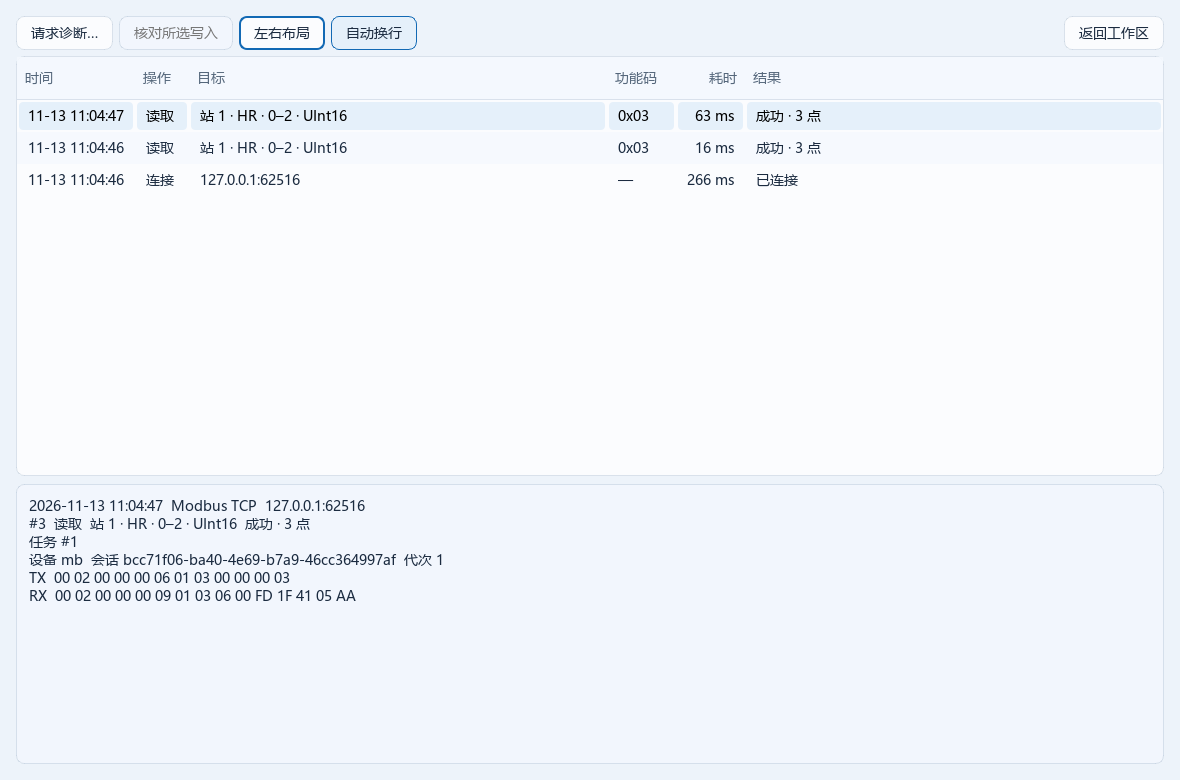
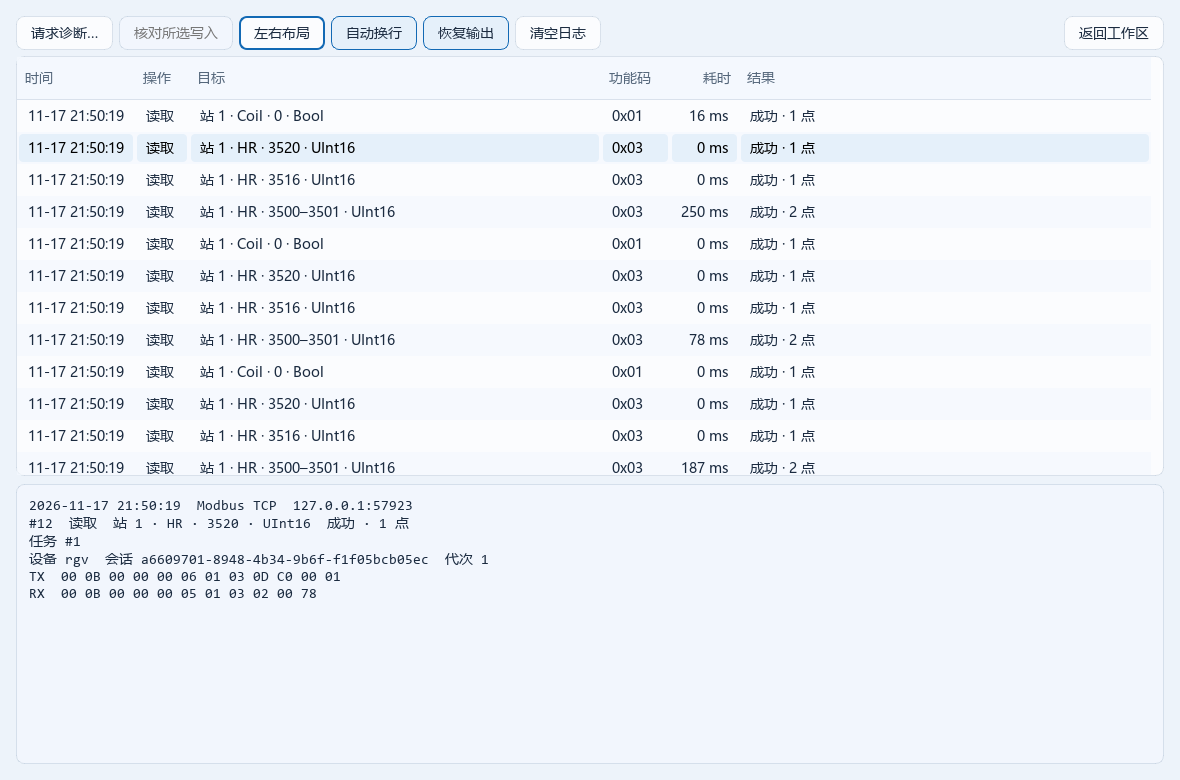
docs: rewrite README and refresh current feature screenshots
Document point-value actions, unconditional execution, live point resets, journal pause, and current compatibility boundaries. Replace previews with seven current application screenshots using local simulation data.

diff --git a/README.md b/README.md
@@ -5,93 +5,19 @@
 [![Python 3.12](https://img.shields.io/badge/Python-3.12-3776AB?logo=python&logoColor=white)](pyproject.toml)
 ![Windows](https://img.shields.io/badge/Platform-Windows-0078D4)
 
-面向 PLC 和工业设备联调的 Windows 桌面工具。通过同一个工作区连接真实设备、启动多台模拟设备、监视点位并查看原始报文。支持 **Modbus TCP** 和 **Siemens S7（经典 S7comm / ISO-on-TCP）** 客户端与服务端，以及 **Modbus RTU** 和 **OPC UA** 预览版。设备、点表、逐位业务含义和模拟方案可随项目保存，便于重复联调。
+面向 PLC、上位机和工业设备联调的 Windows 桌面工具。在同一个项目工作区中连接设备、启动模拟服务、监视点表、配置点位联动，并查看请求的 TX / RX 报文。设备、点表、Bit 含义和模拟规则随项目保存，方便重复联调与交接。
 
-Modbus RTU 已提供串口客户端与多站模拟服务，实机串口验收待完成；OPC UA 已提供端点发现、节点浏览、安全读写、订阅和本机模拟服务，独立厂商设备验收待完成。断线恢复的软件功能已实现，现场与连续 24 小时稳定性验收仍待完成。详见 [RTU](docs/r11-modbus-rtu.md)、[OPC UA](docs/r12-opc-ua.md) 和[运行恢复交付记录](docs/r13-runtime-reliability.md)。
+支持 **Modbus TCP、Siemens S7、Modbus RTU 和 OPC UA**。Modbus RTU、OPC UA 目前为预览功能，具体验收范围见下方协议表。
 
-[功能概览](#功能概览) · [多设备模拟](#多设备模拟) · [点位描述与 Bit 含义](#点位描述与-bit-含义) · [快速开始](#快速开始) · [本机联调](#本机联调) · [使用指南](docs/user-guide.md) · [Star 趋势](#star-趋势)
+[快速开始](#快速开始) · [协议支持](#协议支持) · [服务端控制](#服务端与从站控制) · [场景联动](#场景联动与点位取值) · [日志与诊断](#日志报文与诊断) · [使用指南](docs/user-guide.md)
 
-![AllProtocol 项目工作区：双协议连接与监听、温控点表轮询及请求报文](docs/assets/readme-workspace.png)
+![项目工作区：设备连接、实时点表、模拟服务与请求日志](docs/assets/readme-workspace.png)
 
-截图拍摄于 2026-11-13，使用本机模拟服务和示例数据；后续新增功能以正文和使用指南为准。
-
-## 功能概览
-
-| 能力 | 支持范围 |
-| --- | --- |
-| Modbus TCP | 按 Unit ID 访问 HR、IR、Coil 和 DI。支持 16、32、64 位寄存器类型及多种字节序和字序 |
-| Modbus RTU（预览） | Windows COM 串口、9600 / 8E1 默认参数、站号 1–247；支持客户端读写及多站模拟服务、点表、回读与 CRC 诊断 |
-| OPC UA（预览） | opc.tcp 端点发现、按层浏览、标量读写及回读、点表轮询和数据变更订阅；Basic256Sha256 / SignAndEncrypt、指定服务端证书信任及本机模拟服务 |
-| Siemens S7 | 访问 DB、M、I、Q 区，支持 Bool、Byte、Int、Word、DInt、DWord 和 Real。I 区对网络客户端只读 |
-| SQLite 存储 | 本地连接、服务端方案和日志统一入库；项目保存为可携带的 `.allprotocol` 数据库，兼容读取旧 JSON 项目 |
-| 多设备与点表 | 每台设备独立会话，支持批量连接、命名点表、多组周期轮询、工程值换算及 JSON / CSV 导入 |
-| 点位功能定义 | 多行用途、取值含义和注意事项；按名称、地址、描述筛选，跨当前设备点表定位；描述随项目及报告保存 |
-| 断线恢复 | 默认关闭的设备级自动重连，有间隔与次数上限；可选恢复读取轮询/订阅，未知写入及排队手动请求不重放 |
-| 调度与采样质量 | 手动请求与轮询公平排队；区分有效、超时、断开、协议失败和过期，失败保留最后成功值并标记旧数据 |
-| 服务端场景 | 多协议可同时监听。点位支持固定值、递增、心跳、斜坡、正弦和时间轴，可暂停、重置或手动接管 |
-| 多设备模拟 | 同一项目最多配置 64 个模拟服务，支持同协议多实例、复制与独立启停；各实例点位、场景、运行值和日志独立 |
-| 点位排序 | 客户端点表和各协议模拟端支持停止采集或服务后拖动行号排序；Modbus TCP/RTU、S7 服务端还可按地址升序或降序查看 |
-| Modbus 从站复用 | 按源 Unit ID 复制全部点位及场景规则到新从站；支持当前从站全部数据区点位的 JSON / CSV 导入导出 |
-| 项目与报文 | 保存设备、点表和服务端方案到可移植的项目文件，联调时查看请求结果及 TX / RX 十六进制报文 |
-| 日志阅读 | 可拖动列表与报文分隔条、切换上下 / 左右布局和自动换行；支持专注日志及可最大化的独立窗口 |
-| 请求诊断 | 按来源、时间、操作及错误筛选，查看协议字段与对应字节、失败率、平均耗时及 P50 / P95 |
-| 故障注入 | 模拟延迟应答、异常应答或主动断开，按操作及触发次数 / 持续时间限定范围 |
-| 写入回读 | 原始值或工程值输入，可选设备应答后自动回读，支持浮点容差及对原写入独立读取核对 |
-| 联调报告 | 后台冻结并预览配置与日志，导出包含离线 HTML、JSON、CSV 的 ZIP，保留写入验证证据与日志缺失提示 |
-| 二进制与位查看 | 查看 Bool 及 8、16、32、64 位数值的位模式，支持负数补码和 IEEE 754 浮点数；可定义每位名称及 0/1 含义，随实时原始值显示 |
-| Windows 界面 | 跟随系统浅色、深色主题，支持键盘快捷键；受支持的 Windows 11 环境启用 Acrylic 背景，高对比度模式回退原生配色 |
-
-## 界面与位查看
-
-从首页进入本地客户端、服务端或项目工作区。窗口保留系统标题栏，主题跟随系统设置；不支持 Acrylic 的环境使用普通背景。
-
-![AllProtocol 首页：项目操作、本地客户端和服务端入口](docs/assets/readme-home.png)
-
-在读取结果、项目点表或服务端点位中选择一行，点击「位查看…」，查看每个 bit 的值、掩码和浮点字段。窗口随所选点位和数值更新，并显示断开、过期等采样状态。这里展示解码后数值的位模式，bit 0 为最低位，协议字节顺序仍以 TX / RX 报文为准；位查看不会写入设备。
-
-![只读位查看窗口：二进制值、逐位状态及掩码](docs/assets/readme-bits.png)
-
-## 多设备模拟
-
-在项目工作区点击「添加模拟设备…」，选择协议和监听端点，即可为同一协议添加多个独立服务。例如三台 S7 可分别使用 `127.0.0.1:1102`、`:1103`、`:1104`，相同地址的点位在各设备中互不影响。每个实例可独立启停、重命名、复制或删除，切换视图时其他服务继续运行。
-
-模拟 Modbus 网关或同一 RTU 总线上的多台设备时，在原服务中点击「新增从站…」，通过 Unit ID / 站号区分；独立网络设备使用不同监听端点，独立 RTU 总线使用不同串口。OPC UA 模拟端仅限本机回环，须显式选择无加密匿名模拟模式。
-
-复制设备保留点位、初始值、顺序、Bit 含义及场景规则，并使用新的端点。修改后保存项目，重新打开项目不会自动启动服务。端口或串口被占用时，仅对应实例启动失败。配置方式和边界见[多设备模拟指南](docs/multi-device-simulation.md)。
-
-## 点位描述与 Bit 含义
-
-客户端点位的「功能描述」支持多行用途、取值含义和操作注意事项。选中点位后可在表格右侧查看全文；搜索框按名称、地址和描述筛选，「定位设备内结果」可跨当前设备的点表查找并跳转。描述随项目、点表 JSON/CSV 及 HTML/JSON 报告保存。
-
-编辑客户端点位或模拟端点位时，点击「Bit 含义…」，可填写每一位的名称、0 的含义和 1 的含义，例如 `bit 0 / 运行状态 / 停止 / 运行`。在「位查看…」中，定义随实时原始值显示；未采样时仍可查看定义，当前状态显示未知。bit 0 为解码后原始值的最低位，String 不支持位定义。此查看操作不会写入设备。
-
-停止当前表的采集任务或模拟服务后，可拖动左侧行号调整点位顺序，修改后需保存项目或方案。操作限制及导入导出说明见[命名点位与点表](docs/user-guide.md#命名点位与点表)。
-
-## 日志诊断与写入验证
-
-客户端和服务端共用日志阅读区。拖动分隔条调整列表与报文大小，用「左右布局 / 上下布局」和「自动换行」适配长报文；点击「独立窗口…」可放大阅读，关闭后回到原位置，所选记录和实时更新会保留。项目工作区还可用「专注日志」或 `Ctrl+Shift+L` 展开阅读区域，返回后恢复原工作区布局。
-
-![独立日志窗口：实时请求列表与完整 TX / RX 报文](docs/assets/readme-journal.png)
-
-点击「请求诊断…」可筛选请求、查看统计，并在字段树中定位原始报文字节。服务端的「故障注入…」可模拟延迟、异常及断连，用于检查客户端的错误处理。延迟写入即使超时也可能已生效，界面会保留「写入结果未知」状态。
-
-写入前可检查原始值与工程值预览，并勾选「设备应答后回读」，设置延迟及浮点容差。回读记录关联原写入；也可选中日志中的写入，点击「核对所选写入」独立读取原目标。详细操作见[使用指南](docs/user-guide.md#写入回读验证)。
-
-## 项目存储与报告交付
-
-项目保存为单个 `.allprotocol` SQLite 文件，可携带设备、点表、模拟方案及工作区布局。旧版 JSON v1/v2/v3 项目仍可打开，保存时转换为 SQLite；需要保留原件时使用「另存为…」。旧版程序无法读取新版 SQLite 项目。项目不保存连接运行状态、当前采样值或日志。
-
-项目配置版本随所用功能升级：自定义断线恢复设置使用 v6，Bit 定义使用 v7，多模拟设备配置使用 v8；本版兼容读取旧项目。旧版程序无法打开超出其支持版本的项目，交接前请确认接收方版本，或另存副本保留原件。OPC UA 私钥与证书路径留在本机，换机后需重新建立证书配置。
-
-本地连接、服务端方案和日志统一存储在 `%LOCALAPPDATA%\AllProtocol\allprotocol.sqlite3`，无需安装数据库服务。旧 JSON / JSONL 在首次访问对应数据时自动迁移并保留原件；备份时退出程序后复制数据库即可。各日志来源展示最近 500 条，按 5 MiB 日志内容阈值轮换。详见 [SQLite 存储说明](docs/sqlite-storage.md)。
-
-在项目工作区点击「导出联调报告…」，选择时间和来源后「冻结并预览」。后台生成报告时采样继续，预览和导出使用同一快照。保存的 ZIP 内含离线 `report.html`、`records.json` 和 `records.csv`，包含配置摘要、统计、故障标记与写入验证证据；可选包含 TX / RX 报文。报告注明时区、记录范围和已知日志缺失，每个来源最多 500 条，服务端日志限于本次工作区。
-
-![联调报告预览：冻结记录、来源范围、请求统计与导出入口](docs/assets/readme-report.png)
+本文截图于 **2026-11-17** 从当前源码生成，使用本机 Modbus TCP 模拟服务和示例点位；图中端口为临时端口。
 
 ## 快速开始
 
-在 Windows 上安装 Git 和 [uv](https://docs.astral.sh/uv/getting-started/installation/)，然后在 PowerShell 运行。
+安装 Git 和 [uv](https://docs.astral.sh/uv/getting-started/installation/)，在 Windows PowerShell 运行：
 
 ```powershell
 git clone https://github.com/GTboy04/all-protocol.git
@@ -101,49 +27,126 @@ uv sync --locked --python 3.12
 uv run --locked python -m all_protocol
 ```
 
-临时联调可从首页进入「本地调试」。需要保存设备、点表与模拟规则时，选择「新建项目」并进入项目工作区。构建 Windows 可执行文件的命令见 [Windows 打包指南](docs/user-guide.md#打包-windows-应用)。
+首页提供「本地调试」和项目入口。临时读写可直接进入客户端或服务端；需要保存设备、点表和模拟规则时，新建项目并进入项目工作区。
 
-## 本机联调
+![首页：项目文件操作及本地客户端、服务端入口](docs/assets/readme-home.png)
 
-1. 在服务端选择 **Modbus TCP**，新增 Unit ID 为 `1` 的从站，并添加一个偏移为 `0`、类型为 UInt16 的 HR 点位。
-2. 如需动态值，在启动监听前打开「场景模拟…」，为该点配置斜坡或周期递增。点击「启动服务」，再从「场景模拟…」启动场景。
-3. 在 Modbus TCP 客户端连接 `127.0.0.1:1502`，读取同一个点位。可在请求日志中选中一条记录，查看对应的 TX / RX 报文。
+Windows 可执行文件构建方式见[打包指南](docs/user-guide.md#打包-windows-应用)。运行打包版时须完整解压，保留程序旁的 `_internal` 目录。
 
-也可以启动 **Siemens S7** 服务，用客户端连接 `127.0.0.1:1102`（Rack 0 / Slot 1），读取预置点位 `DB1.DBW0`。
+## 协议支持
 
-体验 **OPC UA** 时，在模拟端显式选择「仅本机无加密匿名模拟」，添加标量节点并启动 `127.0.0.1:4840` 的服务；客户端选择对应的无加密匿名模式，发现端点、浏览节点后读取，或在项目点表中启动订阅。真实服务端的证书安全连接配置见 [OPC UA 使用指南](docs/user-guide.md#opc-ua预览版)。
+| 协议 | 客户端与模拟服务能力 | 验证范围 |
+| --- | --- | --- |
+| Modbus TCP | Unit ID 多从站；HR、IR、Coil、DI；16 / 32 / 64 位寄存器类型、字节序和字序；点位读写与场景联动 | 本机真实 TCP 读写、多站隔离与桌面交互自动化 |
+| Siemens S7 | 经典 S7comm / ISO-on-TCP；DB、M、I、Q 区；Bool、Byte、Int、Word、DInt、DWord、Real；I 区对网络客户端只读 | 本机协议互通和独立客户端测试 |
+| Modbus RTU（预览） | Windows COM 串口；站号 1–247；默认 9600 / 8E1；多站模拟、CRC 诊断、写入回读 | 软件和串口链路模拟测试；实机串口验收待完成 |
+| OPC UA（预览） | 端点发现、节点浏览、标量读写、订阅；Basic256Sha256 / SignAndEncrypt 与证书信任；本机模拟 | 软件及独立客户端互通；独立厂商设备验收待完成 |
 
-**Modbus RTU** 联调需要可用串口及正确的串口链路。客户端与模拟端不能占用同一 COM 端口；请按设备设置波特率、校验位、停止位和站号，默认参数为 `9600 / 8E1`。打开串口成功不代表每个站号可达，仍需查看请求结果及点位质量。
+自动重连可按设备配置，默认关闭；可选择恢复读取轮询和订阅。写入结果未知或尚未执行的手动请求不会自动重放。现场互通与连续 24 小时稳定性仍需按实际环境验收。
 
-## 文档
+## 服务端与从站控制
 
-- [使用指南](docs/user-guide.md)涵盖源码运行、Windows 打包、项目文件、客户端与服务端配置。
-- [SQLite 存储说明](docs/sqlite-storage.md)涵盖数据库结构、事务保存、旧数据迁移与备份。
-- [多设备模拟](docs/multi-device-simulation.md)说明同协议多实例、Modbus 多从站、端点配置与项目兼容性。
-- [Modbus RTU](docs/r11-modbus-rtu.md)、[OPC UA](docs/r12-opc-ua.md) 和[运行恢复](docs/r13-runtime-reliability.md)记录软件交付范围及待完成的现场验收。
-- [点位功能描述](docs/requirements/R20-point-definitions.md)说明多行描述、搜索定位及报告交付。
-- [Windows UI 设计](docs/windows-ui-design.md)记录界面改造依据、开源参考、主题与键盘交互及预览。
-- [开发路线](docs/requirements/README.md)记录功能状态和验收范围。
-- [协议扩展开发路线](docs/requirements/protocol-expansion.md)记录 Modbus RTU、OPC UA 及后续候选协议的实施与验收计划。
-- [Modbus TCP 服务端设计](docs/modbus-tcp-server-design.md)、[Siemens S7 客户端设计](docs/s7-client-design.md)和[场景模拟](docs/requirements/R7-simulation.md)提供协议和运行细节。
+项目最多可配置 **64 个模拟服务**，支持同协议多实例、复制及独立启停。各实例的点位、运行值、场景与日志独立。例如三台 S7 模拟设备可分别监听 `127.0.0.1:1102`、`:1103`、`:1104`。
 
-## 参与贡献
+Modbus TCP 同一服务下可配置多个 Unit ID，在从站列表中单独启动或停止，也可启动全部从站。停止某站后，该 Unit ID 返回异常 `0x0B`，其他站继续通信；单站启停保留当前值。全部从站停止后，监听仍保留，点击「停止服务」释放端口。
 
-欢迎通过 [GitHub Issues](https://github.com/GTboy04/all-protocol/issues) 报告问题或提出功能建议，也欢迎提交 Pull Request。报告联调问题时，请附上协议、复现步骤和脱敏后的报文。
+**服务运行时点击「重置点位」**，可将本服务全部点位恢复为配置初始值，包括未配置场景规则的点位。重置会停止场景、取消待执行动作并清除手动接管，服务监听和客户端连接继续保持。已停止从站的点位在下次启动该站时恢复。
 
-提交改动前可运行以下命令验证。测试使用本机临时端口，覆盖协议读写、模拟场景、项目存储和桌面交互。
+![服务端当前值：重置点位、多从站状态和实时请求日志](docs/assets/readme-server.png)
+
+从站支持复制，以及全部数据区点位的 JSON / CSV 导入导出。点位可在停止服务后拖动行号排序；Modbus TCP / RTU、S7 还支持按地址排序。详见[多设备模拟指南](docs/multi-device-simulation.md)。
+
+## 场景联动与点位取值
+
+各协议的基础场景支持固定值、递增、心跳、斜坡、正弦和时间轴。Modbus TCP 还可在「场景模拟…」中按 Unit ID 配置条件联动与 Python 扩展。
+
+一条联动规则可以这样配置：
+
+1. 选择源点位，例如 `HR / 3500 · 炉号`，设置条件「等于 10」。
+2. 在触发后 `0 ms`，将 `HR / 3501 · 目标炉号` 的写入方式设为「取点位值」，选择源点位。动作执行时复制该点位的当前值。
+3. 在触发后 `2000 ms`，将 `Coil / 0 · 送料完成` 的写入方式设为「手动填写」，写入 `1`。
+4. 点击「检查并预览」和「应用扩展」，保存方案或项目，启动服务后再启动场景。
+
+![条件联动：同一规则混合使用点位当前值和手动固定值](docs/assets/readme-scenario.png)
+
+动作时间均为**相对触发时刻的绝对毫秒数**。取点位值支持当前从站内的其他点位；同一步会先读取所有来源，再批量写入目标。源点位缺失、类型不兼容或实际值越界时会报错并停用扩展。
+
+条件规则默认在源值进入条件时触发；如果启动场景时源值已经满足，也希望立即执行，请勾选「首次启动已满足时也触发」。
+
+不需要条件时，在条件下拉框选择 **「无条件」**。启动场景即执行一次；暂停后继续不会重复执行。重置场景或重新启用扩展、从站后，可再次执行。
+
+![无条件规则：启动场景时执行，无需源点位及比较值](docs/assets/readme-unconditional.png)
+
+Python SDK 使用 `Scene`、`Step`、`build(scene)` 定义序列，支持点位值复制和 `scene.always(...)`。代码只在检查阶段生成计划，运行期间由场景引擎调度。本机检查进程不是安全沙箱，只应检查可信代码；导入的 Python 扩展需要在本机重新检查并启用。
+
+扩展默认保持最终输出，也可选择完成后释放给基础场景。手动或客户端写入会接管相关点位；停止从站会取消该站的未完成动作。完整行为、SDK 示例和导入导出见[场景扩展指南](docs/modbus-scenario-extensions.md)。
+
+## 点表、功能描述与 Bit 查看
+
+每台设备拥有独立会话和命名点表，支持批量连接、多组周期轮询、工程值换算及 JSON / CSV 导入。采样区分有效、超时、断开、协议失败和过期，失败时保留最后成功值并标记状态。
+
+点位可保存多行功能描述和每个 Bit 的名称、0 / 1 含义，并按名称、地址、描述筛选或跨当前设备点表定位。停止采集后可拖动行号调整顺序。
+
+「位查看…」支持负数补码和 IEEE 754 浮点数。**格子只显示 Bit 编号与当前值，点击后在下方显示名称、掩码和业务含义。** Bit 0 为解码后原始值的最低位；协议字节顺序以 TX / RX 报文为准。查看不会写入设备。
+
+![Bit 查看：简洁位格与点击后的业务含义](docs/assets/readme-bits.png)
+
+## 日志、报文与诊断
+
+客户端和服务端日志均支持 **「暂停输出 / 恢复输出」**。暂停后列表、选择和报文详情保持，方便停下来阅读某条记录；通信和日志存储继续。恢复后显示最新保留日志。
+
+日志区可调整分隔条、切换上下 / 左右布局与自动换行，也可放到可最大化的独立窗口。项目工作区使用「专注日志」或 `Ctrl+Shift+L` 展开阅读。
+
+![暂停输出的独立日志窗口：保留选中记录及 TX / RX 报文](docs/assets/readme-journal.png)
+
+「清空日志」同步清理对应本地历史、列表和详情，通信继续，新请求继续记录。项目中按当前设备或模拟服务端点清理。
+
+| 工具 | 用途 |
+| --- | --- |
+| 请求诊断 | 筛选请求，查看失败率、平均耗时、P50 / P95，定位协议字段与原始字节 |
+| 故障注入 | 模拟延迟、异常应答或断开，限定操作类型、次数或持续时间 |
+| 写入回读 | 设备应答后按延迟回读，设置浮点容差；也可独立核对所选写入 |
+| 联调报告 | 冻结配置与日志后预览，导出包含离线 HTML、JSON、CSV 的 ZIP，保留写入验证与日志缺失信息 |
+
+## 项目与数据保存
+
+`.allprotocol` 项目使用 SQLite 保存设备、点表、模拟方案和工作区布局，可复制到其他电脑。连接状态、当前采样值和运行任务不随项目恢复；日志按本地保留策略存储。报告用于交付需要保留的联调记录。
+
+本版可读取旧 JSON 和 SQLite 项目。包含固定值场景扩展的配置使用方案 v5 / 项目 v9；使用点位取值或无条件规则时升级为方案 v6 / 项目 v10，扩展导出包使用 v2。旧版程序无法读取超出其支持版本的配置，交接时请使用匹配版本，或另存副本保留原件。
+
+本地配置和日志位于 `%LOCALAPPDATA%\AllProtocol\allprotocol.sqlite3`。每个日志来源显示最近 500 条，按 5 MiB 日志内容阈值轮换。退出程序后复制数据库可备份；旧 JSON / JSONL 首次访问时自动迁移并保留原件。OPC UA 证书和私钥路径属于本机配置，换机后需重新设置。
+
+## 本机联调示例
+
+1. 在 Modbus TCP 服务端新增 Unit 1，添加偏移为 0、类型为 UInt16、初始值为 42 的 HR 点位。
+2. 启动服务，客户端连接 `127.0.0.1:1502`，读取 Unit 1 / HR / 0，结果应为 42。
+3. 写入 100 后回读；在日志中检查 TX / RX。点击「暂停输出」即可固定当前阅读位置。
+4. 服务端点击「重置点位」，使用同一客户端连接再次读取，结果恢复为 42。
+5. 需要自动变化时，停止服务后配置基础场景或联动规则，保存后重新启动服务与场景。
+
+S7 本机模拟默认使用 `127.0.0.1:1102`、Rack 0 / Slot 1。OPC UA 模拟仅支持回环地址，需要显式选择无加密匿名模拟模式。RTU 客户端和模拟端需要相互连通的两个可用串口，不能占用同一 COM 端口。
+
+## 开发与验证
 
 ```powershell
-uv run --locked pytest -q
+uv sync --locked --group dev
+uv run --locked pytest tests/unit tests/integration -q
 ```
 
-2026-11-16 合并主分支前的本地全量回归结果为 **470 项通过、3 项跳过**。自动化测试不替代真实串口、独立厂商 OPC UA 设备、打包版现场互通及长时间稳定性验收。
+2026-11-17 当前源码全量回归：**538 项通过、3 项跳过**。覆盖协议读写、从站控制、场景时序与复制取值、存储往返、日志暂停及桌面交互。自动化结果不替代真实设备、打包版现场互通和长时间稳定性验收。
 
-弹窗文字更新与清空的回归检查可单独执行：
+功能开发使用 `codex/` 前缀分支，验证后通过合并提交纳入 `main`。本次新增功能集中在 `codex/modbus-scenario-extensions`，保留功能提交与合并记录。
 
-```powershell
-uv run --locked pytest tests/integration/test_dialog_repainting.py -q
-```
+## 文档与贡献
+
+- [使用指南](docs/user-guide.md)：客户端、服务端、项目、打包与操作说明。
+- [场景扩展指南](docs/modbus-scenario-extensions.md)：表单、Python SDK、运行行为及文件兼容性。
+- [场景扩展交付记录](docs/requirements/R21-scenario-extensions.md)：实现范围、验证和边界。
+- [多设备模拟](docs/multi-device-simulation.md)、[SQLite 存储](docs/sqlite-storage.md)。
+- [Modbus RTU](docs/r11-modbus-rtu.md)、[OPC UA](docs/r12-opc-ua.md)、[运行恢复](docs/r13-runtime-reliability.md)。
+- [开发路线与需求记录](docs/requirements/README.md)。
+
+欢迎通过 [Issues](https://github.com/GTboy04/all-protocol/issues) 报告问题，或提交 Pull Request。问题报告请包含协议、复现步骤及脱敏报文。本项目采用 [MIT 许可证](LICENSE)。
 
 ## Star 趋势
 
